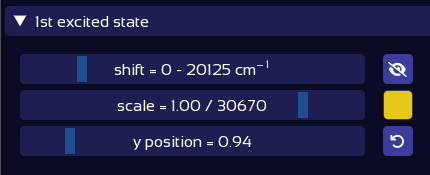
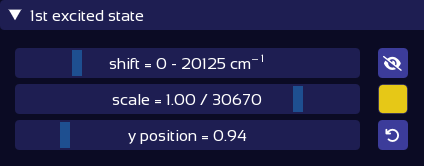
documentation

diff --git a/documentation/README.md b/documentation/README.md
@@ -81,9 +81,18 @@ The up and down arrows adapt the last vertical spectrum shift, spectrum scale, o
 Holding down shift while scrolling or using arrow buttons allows for finer adjustments. 
 
 
-### Vertical Spectrum Positions
+### Moving and scaling experimental spectra
 
-The experimental spectra can be moved vertically in one of three ways: The global "vertical spacing" value
+The experimental spectra can be moved horizontally and vertically, as well as scaled vertically, in three ways:
+
+#### Spectra control panel
+Each spectrum can be individually moved using its corresponding sliders in the left control panel:
+<figure><img src=".gitbook/assets/state_sliders.png" alt="Spectrum slider controls"><figcaption></figcaption></figure>
+Additionally, using the buttons in this section, one can hide the spectrum from the plot, choose its color, and reset the shift & scale parameters.
+
+
+The global "vertical spacing" slider on the top right places the spectra equidistantly. 
+Each spectrum can also be individually moved using its "y position" slider, or by directly in the plot: Hovering the mouse near the base of the spectrum reveals a drag line, which can be dragged to the desired location.  
 
 
 
